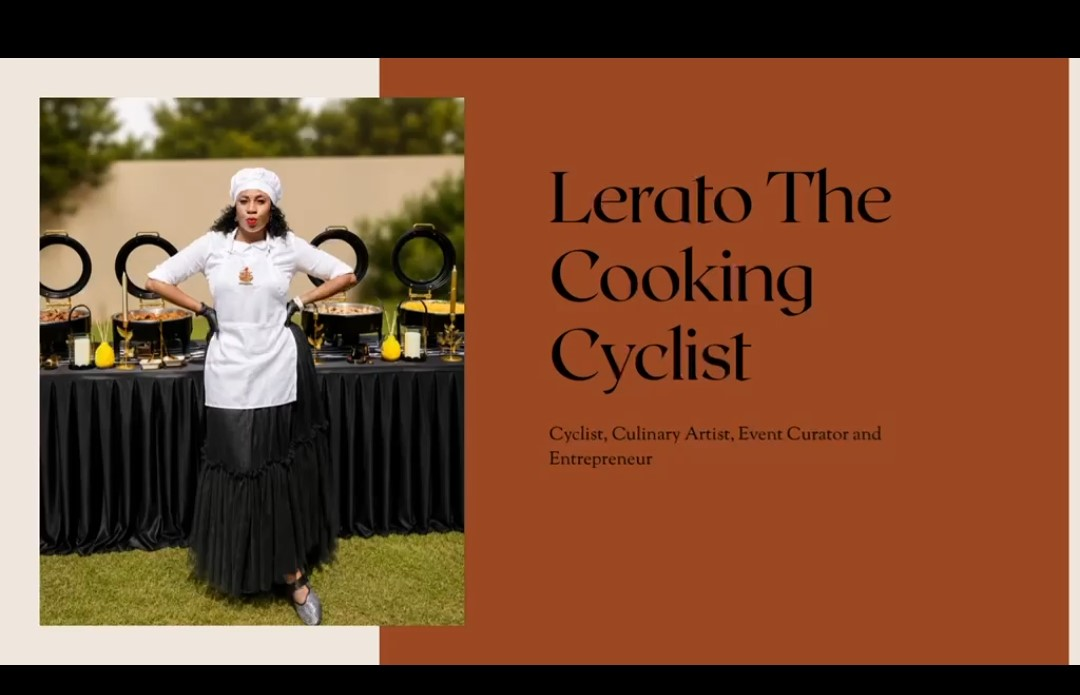
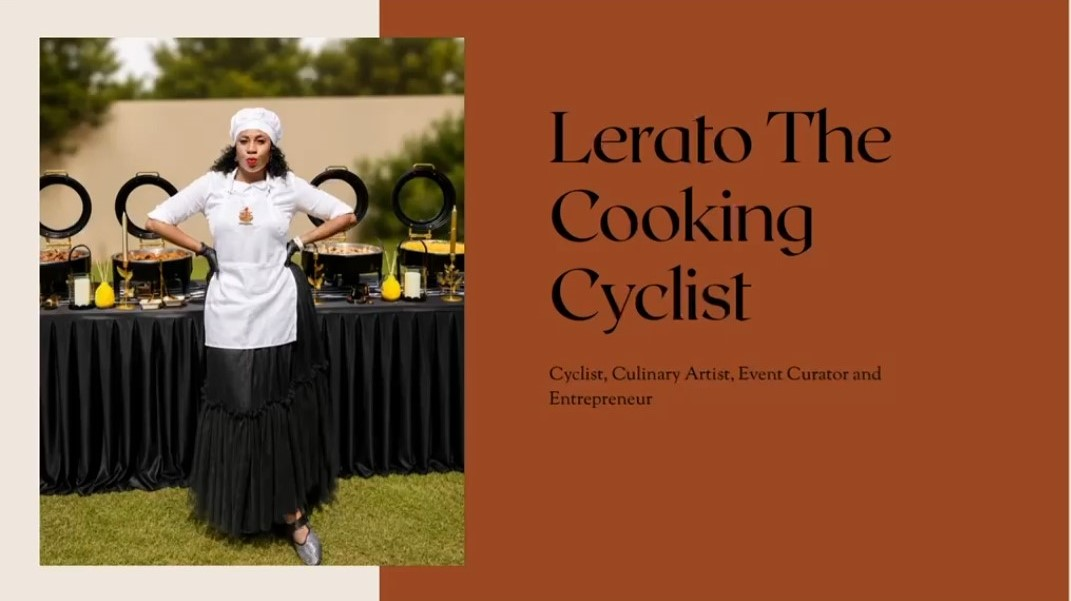
gallery

diff --git a/index.html b/index.html
@@ -257,7 +257,7 @@
     bottom: -2rem;
     left: -2rem;
     background: var(--black);
-    padding: 2rem;
+    padding: 1rem;
     width: 180px;
   }
 
@@ -352,6 +352,76 @@
     grid-template-columns: repeat(3, 1fr);
     gap: 2px;
   }
+
+  /* ── GALLERY ── */
+  .gallery {
+    background: var(--black);
+    padding: 7rem 5rem;
+  }
+
+  .gallery .section-header { text-align: left; margin-bottom: 2rem; }
+
+  .gallery-grid {
+    column-count: 3;
+    column-gap: 1rem;
+  }
+
+  .gallery-item {
+    break-inside: avoid;
+    margin-bottom: 1rem;
+    position: relative;
+    overflow: hidden;
+    border-radius: 6px;
+  }
+
+  .gallery-item img {
+    width: 100%;
+    display: block;
+    height: auto;
+    transition: transform 0.3s ease;
+  }
+
+  .gallery-item:hover img { transform: scale(1.03); }
+
+  .gallery-item figcaption {
+    position: absolute;
+    bottom: 0;
+    left: 0;
+    right: 0;
+    padding: 0.75rem 1rem;
+    background: linear-gradient(180deg, transparent, rgba(0,0,0,0.6));
+    color: var(--cream);
+    font-size: 0.85rem;
+    font-family: 'Cormorant Garamond', serif;
+  }
+
+  .lightbox {
+    position: fixed;
+    inset: 0;
+    display: flex;
+    align-items: center;
+    justify-content: center;
+    background: rgba(0,0,0,0.85);
+    visibility: hidden;
+    opacity: 0;
+    transition: opacity 0.25s ease; 
+    z-index: 2000;
+    padding: 2rem;
+  }
+
+  .lightbox.open { visibility: visible; opacity: 1; }
+
+  .lightbox .lb-img { max-width: 90%; max-height: 80%; box-shadow: 0 20px 60px rgba(0,0,0,0.6); border-radius: 6px; }
+
+  .lb-close, .lb-prev, .lb-next { position: absolute; background: transparent; border: none; color: var(--cream); font-size: 2rem; cursor: pointer; }
+  .lb-close { top: 1.5rem; right: 2rem; }
+  .lb-prev { left: 1.5rem; top: 50%; transform: translateY(-50%); }
+  .lb-next { right: 1.5rem; top: 50%; transform: translateY(-50%); }
+
+  .lb-caption { position: absolute; bottom: 3rem; color: var(--text-light); font-family: 'Cormorant Garamond', serif; font-size: 1rem; text-align: center; width: 100%; }
+
+  @media (max-width: 1100px) { .gallery-grid { column-count: 2; } }
+  @media (max-width: 600px) { .gallery-grid { column-count: 1; } }
 
   .service-card {
     background: rgba(255,255,255,0.03);
@@ -773,7 +843,22 @@
     </div>
   </div>
   <div class="hero-right">
-    <img src="/mnt/user-data/uploads/1.jpg" alt="Lerato — Chef & Caterer">
+    <img src="assets/1.jpg" alt="Lerato — Chef & Caterer">
+  </div>
+</section>
+
+<!-- GALLERY -->
+<section class="gallery" id="gallery">
+  <div class="section-header reveal">
+    <p class="section-eyebrow">Taste the Craft</p>
+    <h2 class="section-title" style="color:var(--cream);">Food Gallery</h2>
+  </div>
+  <div class="gallery-grid">
+    <figure class="gallery-item reveal"><img src="assets/1.jpg" alt="Signature Platter"><figcaption>Signature Platter</figcaption></figure>
+    <figure class="gallery-item reveal"><img src="assets/3.jpg" alt="Seasonal Salad"><figcaption>Seasonal Salad</figcaption></figure>
+    <figure class="gallery-item reveal"><img src="assets/11.jpg" alt="Event Highlight"><figcaption>Event Highlight</figcaption></figure>
+    <figure class="gallery-item reveal"><img src="assets/1.jpg" alt="Sweet Ending"><figcaption>Sweet Ending</figcaption></figure>
+    <figure class="gallery-item reveal"><img src="assets/3.jpg" alt="Plated Course"><figcaption>Plated Course</figcaption></figure>
   </div>
 </section>
 
@@ -788,7 +873,7 @@
   </div>
   <div class="about-right reveal">
     <div class="about-img-wrap">
-      <img src="/mnt/user-data/uploads/3.jpg" alt="Lerato — Chef Profile">
+      <img src="assets/3.jpg" alt="Lerato — Chef Profile">
       <div class="about-badge">
         <p class="about-badge-text">"We serve an experience"</p>
       </div>
@@ -880,7 +965,7 @@
     </ul>
   </div>
   <div class="why-right reveal">
-    <img src="/mnt/user-data/uploads/6.jpg" alt="Culinary Presentation" class="why-img">
+    <img src="assets/11.jpg" alt="Culinary Presentation" class="why-img">
   </div>
 </section>
 
@@ -956,7 +1041,7 @@
 
 <!-- PROMISE -->
 <section class="promise">
-  <p class="promise-text reveal">"We deliver exceptional food and professionally curated experiences — ensuring every corporate event is executed with excellence, efficiency, and attention to detail."</p>
+  <p class="promise-text reveal">"We deliver exceptional food and professionally curated experiences while ensuring every corporate event is executed with excellence, efficiency, and attention to detail."</p>
   <p class="promise-author reveal">— Lerato, The Cooking Cyclist</p>
 </section>
 
@@ -1038,6 +1123,43 @@
       e.target.reset();
     }, 3000);
   }
+
+  // Lightbox gallery
+  (function(){
+    const galleryImgs = document.querySelectorAll('.gallery-item img');
+    if (!galleryImgs.length) return;
+
+    const lightbox = document.createElement('div');
+    lightbox.className = 'lightbox';
+    lightbox.innerHTML = '<button class="lb-close" aria-label="close">×</button><button class="lb-prev" aria-label="prev">‹</button><img class="lb-img"><button class="lb-next" aria-label="next">›</button><div class="lb-caption"></div>';
+    document.body.appendChild(lightbox);
+
+    const lbImg = lightbox.querySelector('.lb-img');
+    const lbCaption = lightbox.querySelector('.lb-caption');
+    let current = 0;
+
+    function open(i){
+      const el = galleryImgs[i];
+      lbImg.src = el.src;
+      lbCaption.textContent = el.alt || '';
+      lightbox.classList.add('open');
+      current = i;
+    }
+    function close(){ lightbox.classList.remove('open'); }
+    function move(dir){ open((current + dir + galleryImgs.length) % galleryImgs.length); }
+
+    galleryImgs.forEach((img, i) => img.addEventListener('click', (e) => { open(i); }));
+    lightbox.querySelector('.lb-close').addEventListener('click', close);
+    lightbox.querySelector('.lb-next').addEventListener('click', () => move(1));
+    lightbox.querySelector('.lb-prev').addEventListener('click', () => move(-1));
+    lightbox.addEventListener('click', (e) => { if (e.target === lightbox) close(); });
+    document.addEventListener('keydown', (e) => {
+      if (!lightbox.classList.contains('open')) return;
+      if (e.key === 'Escape') close();
+      if (e.key === 'ArrowRight') move(1);
+      if (e.key === 'ArrowLeft') move(-1);
+    });
+  })();
 </script>
 </body>
 </html>